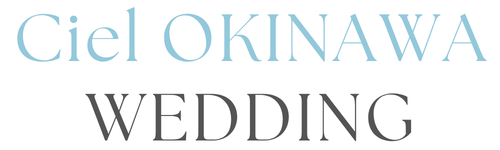
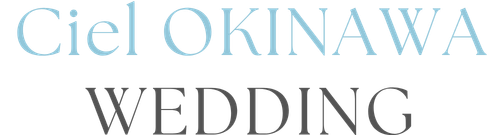
portfolio#1

diff --git a/index.html b/index.html
@@ -364,78 +364,14 @@
             </a>
           </div>
         </div>
-        <div class="p-section--spWrap">
-          <div class="p-section--wrap">
-            <div class="p-section__inner p-section__inner--concept">
-              <img class="c-img--section c-img--section--concept" src="assets/image/CONCEPT.png" alt="コンセプト">
-            </div>
-          </div>
-        </div>
       </div>
-      <div class="p-section sp"><!-- SP用コンセプト -->
+      <div class="p-section --sp"><!-- SP用コンセプト -->
         <div class="c-contentsTitle c-contentsTitle--right">
           <img class="c-img--flower" src="assets/image/Flower_black.png" alt="花">Cielのコンセプト
         </div>
         <div class="p-section--wrap">
           <div class="p-section__inner">
-            <div class="p-section__concept p-section__text--concept">
-              <img class="c-img--concept js-parallaxImage" src="assets/image/AdobeStock_1226227519.jpeg" alt="フォト">
-              <div class="p-section--textBox">
-                <p class="c-text--conceptNumber">（01）</p>
-                <p class="c-text--concept">沖縄の空と海、眺望を<br>感じるロケーションが<br>大切な一日をより印象的に</p>
-              </div>
-            </div>
-            <div class="p-section__text p-section__text--concept">
-              <img class="c-img--section c-img--section--concept" src="assets/image/CONCEPT.png" alt="コンセプト">
-              <div class="c-text--section">
-                <p class="c-text--sectionLine">
-                  抜けるような青空、陽光を受けてきらめく海、頬をなでる風、空と海が一体となった沖縄らしい眺望。Cielは、那覇駅からタクシーで5分の好立地でありながら、街の中では感じることのできない静けさと開放感が広がり、訪れた人をたちまち非日常の世界へと誘います。
-                </p>
-                <p>春夏秋冬、時間ごとに移り変わる、あるがままの自然の美しさ、豊かさをゲストと一緒にわかちあいながら、心に残る1日をお過ごしください。</p>
-              </div>
-              <div class="p-parallax">
-                <img class="c-img--viewport js-parallaxImage" src="assets/image/3246030_s.jpg" alt="風船">
-              </div>
-            </div>
-          </div>
-        </div>
-        <div class="p-section--wrap">
-          <div class="p-section__inner">
-            <div class="p-section__text p-section__text--concept">
-              <div class="c-text--section">
-                <p class="c-text--sectionLine">
-                  Cielは、沖縄の美しい自然に見守られながら20年以上の歴史を重ね、2万組以上の結婚式をお手伝いしてきました。新郎新婦様が歩んでこられた道のり、新たな人生をスタートさせるにあたってゲストに伝えたい思いを共有させていただき、オリジナルの挙式＆パーティをカタチにしていきます。
-                </p>
-                <p>
-                  ウェディングは新たな人生を歩まれるおふたりにとって、ゴールではなく、スタート。空を見上げれば、あの日の感動が蘇り、何度でも気持ちを新たにできる。そんな1日を、各分野のプロフェッショナルたちと一緒に紡ぎませんか。
-                </p>
-              </div>
-              <div class="p-parallax">
-                <img class="c-img--viewport js-parallaxImage" src="assets/image/33741192_s.jpg" alt="ツーショット">
-              </div>
-            </div>
-            <div class="p-section__concept">
-              <div class="p-section--textBox p-section--textBoxLeft">
-                <p class="c-text--conceptNumber">（02）</p>
-                <p class="c-text--concept">Cielでしか描けない<br>最高のウェディング<br>ストーリーを形に</p>
-              </div>
-              <img class="c-img--concept c-img--concept--right js-parallaxImage" src="assets/image/34500004_m.jpg" alt="海">
-            </div>
-          </div>
-          <div class="p-section__button">
-            <a class="c-btn--footerButton" href="#">
-              <span class="c-btn--primary">
-                <span class="c-btn--default--primary">コンセプト</span>
-                <span class="c-btn--hover--primary">コンセプト</span>
-              </span>
-            </a>
-          </div>
-        </div>
-        <div class="p-section--spWrap">
-          <div class="p-section--wrap">
-            <div class="p-section__inner p-section__inner--concept">
-              <img class="c-img--section c-img--section--concept" src="assets/image/CONCEPT.png" alt="コンセプト">
-            </div>
+            <img class="c-img--section c-img--section--concept" src="assets/image/CONCEPT.png" alt="コンセプト">
           </div>
         </div>
       </div>

diff --git a/assets/scss/style.css b/assets/scss/style.css
@@ -445,8 +445,6 @@ body {
   height: 100%;
   -o-object-fit: cover;
      object-fit: cover;
-  -o-object-position: center 20%;
-     object-position: center 20%;
 }
 
 .c-img--others {
@@ -1136,13 +1134,20 @@ body {
 }
 
 @media screen and (max-width: 767px) {
-  .p-section--pcWrap {
+  .p-section.--pc {
     display: none;
   }
 }
 
-.p-section--spWrap {
+.p-section.--sp {
   display: none;
+}
+@media screen and (max-width: 767px) {
+  .p-section.--sp {
+    display: flex;
+    justify-content: flex-end;
+    flex-direction: column;
+  }
 }
 
 .p-section__inner {

diff --git a/assets/scss/object/project/_section.scss b/assets/scss/object/project/_section.scss
@@ -15,14 +15,20 @@
   margin: 60px 0 100px;
 }
 
-.p-section--pcWrap {
+.p-section.--pc  {
   @include sp {
     display: none;
   }
 }
 
-.p-section--spWrap {
+.p-section.--sp {
   display: none;
+
+  @include sp {
+    display: flex;
+    justify-content: flex-end;
+    flex-direction: column;
+  }
 }
 
 .p-section__inner {

diff --git a/assets/scss/object/component/_image.scss b/assets/scss/object/component/_image.scss
@@ -131,7 +131,6 @@
 .c-img--columnImage {
   height: 100%;
   object-fit: cover;
-  object-position: center 20%;
 }
 
 .c-img--others {